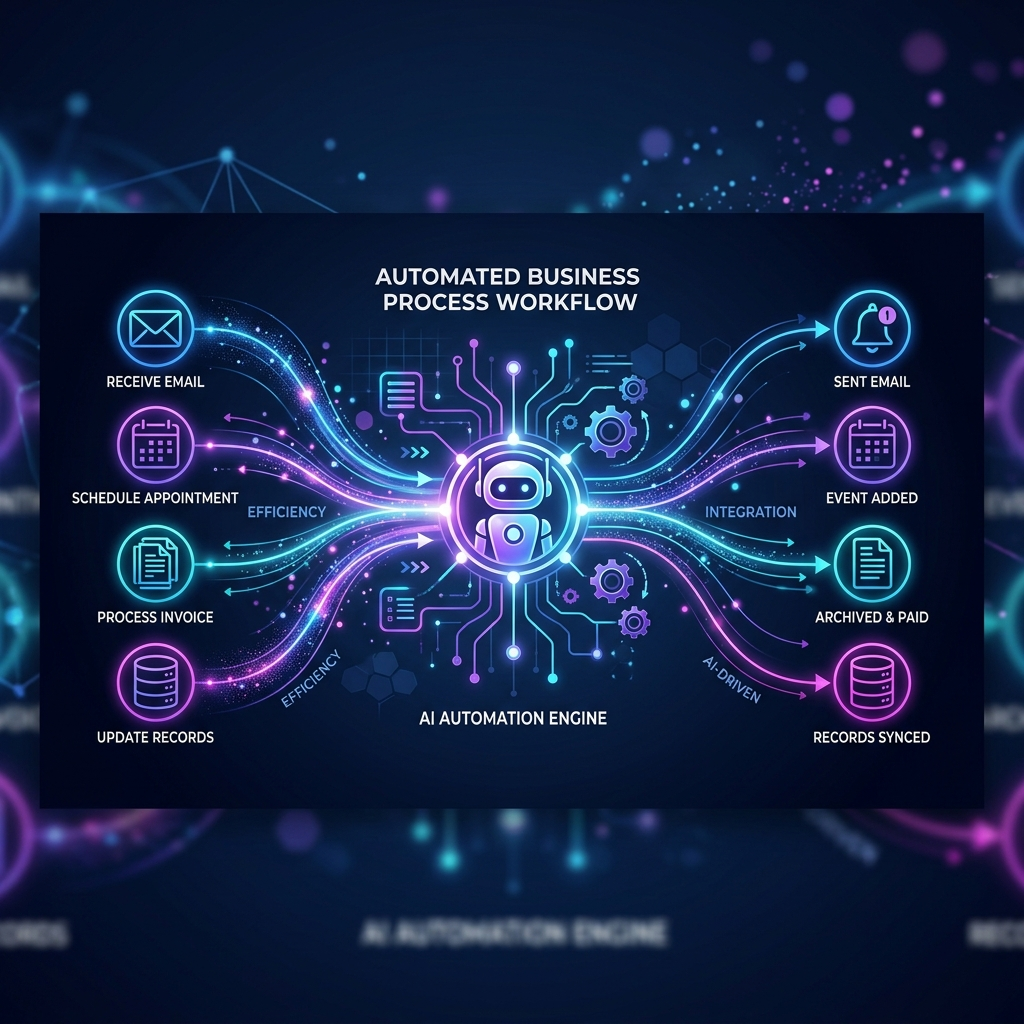
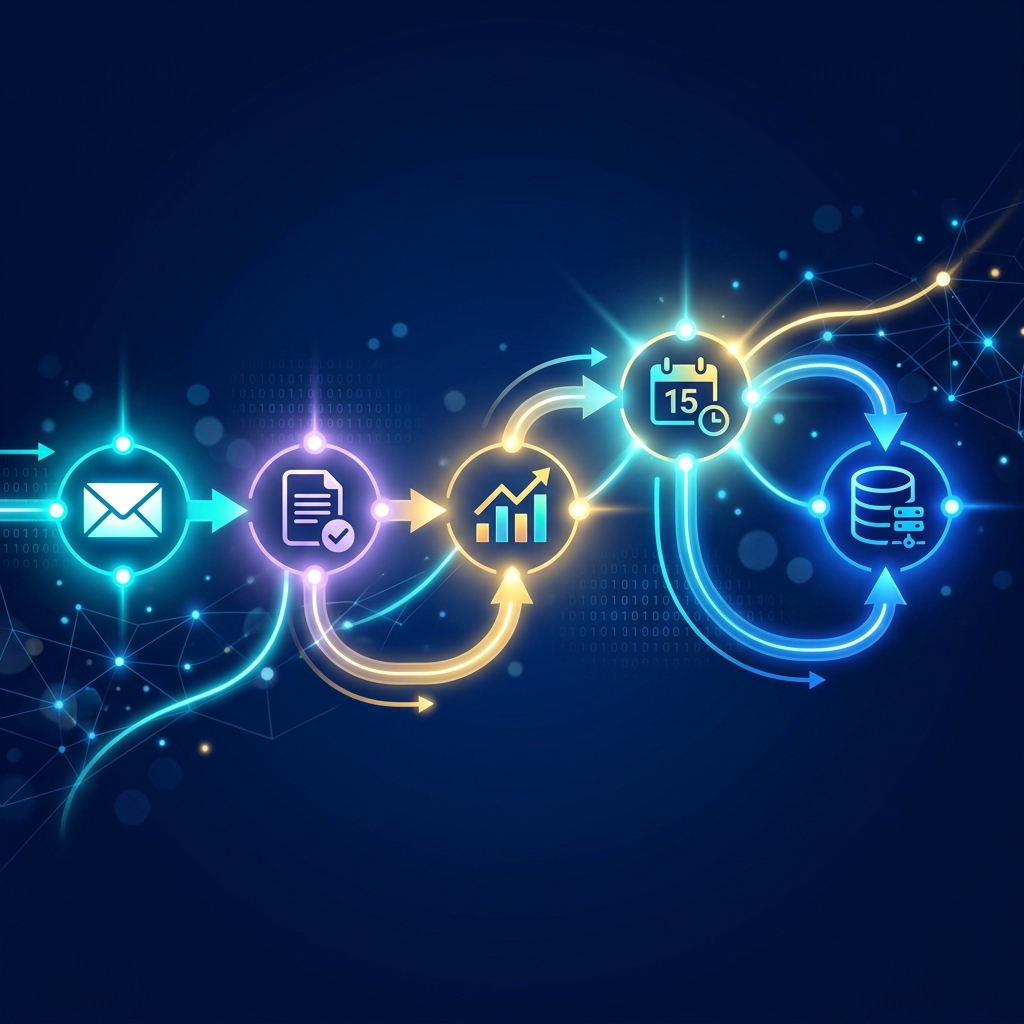
chore: update blog post references and replace cover image

diff --git a/blogi/prosessien-automatisointi-pk-yritykselle.html b/blogi/prosessien-automatisointi-pk-yritykselle.html
@@ -478,24 +478,24 @@
                 <h2 id="lahteet">Lähteet ja tutkimusviitteet</h2>
                 <ol>
                     <li id="lahde-1">
-                        McKinsey Global Institute (2023). <em>A future that works: Automation, employment, and productivity.</em>
-                        <a href="https://www.mckinsey.com/featured-insights/future-of-work/a-future-that-works-automation-employment-and-productivity" target="_blank" rel="noopener noreferrer">mckinsey.com →</a>
+                        McKinsey Global Institute (2017). <em>A future that works: Automation, employment, and productivity.</em>
+                        <a href="https://www.mckinsey.com/~/media/mckinsey/featured%20insights/digital%20disruption/harnessing%20automation%20for%20a%20future%20that%20works/mgi-a-future-that-works-full-report-updated.pdf" target="_blank" rel="noopener noreferrer">mckinsey.com (PDF) →</a>
                     </li>
                     <li id="lahde-2">
-                        Deloitte Insights (2023). <em>The robots are ready. Are you? Untapped advantage in your digital workforce.</em>
-                        <a href="https://www2.deloitte.com/us/en/insights/focus/cognitive-technologies/intelligent-automation-robots-in-the-workforce.html" target="_blank" rel="noopener noreferrer">deloitte.com →</a>
+                        Deloitte Insights (2021). <em>The robots are here: Navigating the next wave of business automation.</em>
+                        <a href="https://www.deloitte.com/ca/en/services/consulting/perspectives/robots-are-here.html" target="_blank" rel="noopener noreferrer">deloitte.com →</a>
                     </li>
                     <li id="lahde-3">
-                        Gartner (2022). <em>Forecast Analysis: Hyperautomation Enabling Software, Worldwide.</em>
-                        <a href="https://www.gartner.com/en/documents/4006920" target="_blank" rel="noopener noreferrer">gartner.com →</a>
+                        Gartner (2024). <em>Forecast Analysis: Hyperautomation Enabling Software, Worldwide.</em>
+                        <a href="https://www.gartner.com/en/documents/5864679" target="_blank" rel="noopener noreferrer">gartner.com →</a>
                     </li>
                     <li id="lahde-4">
-                        Brynjolfsson, E., Li, D. &amp; Raymond, L. (2023). <em>Generative AI at Work.</em> MIT &amp; Stanford.
-                        <a href="https://www.nber.org/papers/w31161" target="_blank" rel="noopener noreferrer">nber.org (NBER Working Paper) →</a>
+                        Brynjolfsson, E., Li, D. &amp; Raymond, L. (2023). <em>Generative AI at Work.</em> Stanford &amp; Google Research.
+                        <a href="https://drive.google.com/file/d/1-UEuVfra-sMBN80UrigQ98lhAxB3NpdO/view" target="_blank" rel="noopener noreferrer">drive.google.com (PDF) →</a>
                     </li>
                     <li>
                         World Economic Forum (2023). <em>Future of Jobs Report 2023.</em>
-                        <a href="https://www.weforum.org/reports/the-future-of-jobs-report-2023" target="_blank" rel="noopener noreferrer">weforum.org →</a>
+                        <a href="https://www3.weforum.org/docs/WEF_Future_of_Jobs_2023.pdf" target="_blank" rel="noopener noreferrer">weforum.org (PDF) →</a>
                     </li>
                 </ol>
             </section>